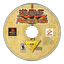
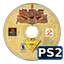
Capas do OPL com cara do original e jeito de port de PS2
capas_ps2.py, a partir das artes da caixa (tools/ps2/opl_art/caixa_original):
faixa preta de PS2 ("PS2 PORT", "PT-BR") no lugar da do PS1 na capa e no
verso (o verso vai para 242x344), logo sem a faixa branca e com "PORT PARA
PS2", ícone do disco com etiqueta PS2, telas do port em português numa
moldura de papiro e o fundo com as bordas escurecidas.

Claude-Session: https://claude.ai/code/session_014wuukR5uZSaACWjpusp4yR

Changed region(s): [[0.5625, 0.7188, 1.0, 0.9375], [0.4062, 0.375, 0.5938, 0.5], [0.4062, 0.5, 0.5938, 0.625]]

diff --git a/tools/ps2/opl_art/capas_ps2.py b/tools/ps2/opl_art/capas_ps2.py
@@ -1,0 +1,163 @@
+#!/usr/bin/env python3
+"""Capas do OPL com a cara do jogo original e jeito de port de PS2.
+
+    python3 capas_ps2.py <pasta com as artes SLUS_014.11_*.png> <telas: duelo.png carta.png> <saida>
+
+Parte das artes da caixa original (escolha do autor, 20/11/2026) e:
+  - capa e verso: troca a faixa "PlayStation" do PS1 por uma faixa preta de
+    jogo de PS2 ("PS2 PORT", "PT-BR") e o verso vai para 242x344;
+  - logo: tira a faixa branca da borda direita e põe "PORT PARA PS2";
+  - ícone: o disco com uma etiqueta "PS2";
+  - telas: imagens do port (em português) numa moldura de papiro, como as
+    telas do verso da caixa;
+  - fundo: o do jogo com as bordas escurecidas.
+Tudo com o ID da ISO (RGPM_001.01).
+"""
+import os
+import sys
+from PIL import Image, ImageDraw, ImageEnhance, ImageFilter, ImageFont
+
+GAME_ID = "RGPM_001.01"
+SANS_B = "/usr/share/fonts/truetype/dejavu/DejaVuSans-Bold.ttf"
+SERIF_B = "/usr/share/fonts/truetype/dejavu/DejaVuSerif-Bold.ttf"
+GOLD, GOLD_DARK = (242, 193, 78), (120, 80, 20)
+PS2_BLUE = (0, 70, 160)
+
+
+def font(path, size):
+    return ImageFont.truetype(path, size)
+
+
+def faixa_ps2(w, h):
+    """Faixa preta de capa de PS2, com o filete azul embaixo."""
+    bar = Image.new("RGB", (w, h), (8, 8, 10))
+    d = ImageDraw.Draw(bar)
+    for y in range(h):  # brilho leve de cima
+        v = int(28 * (1 - y / h))
+        d.line([(0, y), (w, y)], fill=(8 + v, 8 + v, 12 + v))
+    d.line([(0, h - 2), (w, h - 2)], fill=PS2_BLUE)
+    d.line([(0, h - 1), (w, h - 1)], fill=(0, 40, 100))
+    big = font(SANS_B, int(h * 0.62))
+    small = font(SANS_B, max(7, int(h * 0.36)))
+    x = int(h * 0.35)
+    d.text((x, h * 0.44), "PS2", font=big, fill=(255, 255, 255), anchor="lm")
+    x += d.textlength("PS2", font=big) + h * 0.22
+    d.text((x, h * 0.46), "PORT", font=small, fill=(150, 190, 255), anchor="lm")
+    d.text((w - h * 0.35, h * 0.46), "PT-BR", font=small, fill=GOLD, anchor="rm")
+    return bar
+
+
+def arte(img, x0, y0, w, h):
+    """Recorta a arte (sem a faixa do PS1) e cobre w x h mantendo a proporção."""
+    src = img.crop((x0, y0, img.width, img.height))
+    s = max(w / src.width, h / src.height)
+    src = src.resize((round(src.width * s), round(src.height * s)), Image.LANCZOS)
+    left = (src.width - w) // 2
+    top = src.height - h  # o que sobra sai de cima: embaixo ficam o título e a Konami
+    return src.crop((left, top, left + w, top + h))
+
+
+def capa(src, w, h, bar_h, x0, y0):
+    img = Image.open(src).convert("RGB")
+    up = img.resize((img.width * 4, img.height * 4), Image.LANCZOS)
+    out = Image.new("RGB", (w, h))
+    out.paste(arte(up, x0 * 4, y0 * 4, w * 4, (h - bar_h) * 4).resize((w, h - bar_h), Image.LANCZOS), (0, bar_h))
+    out.paste(faixa_ps2(w, bar_h), (0, 0))
+    out = out.filter(ImageFilter.UnsharpMask(radius=1, percent=60, threshold=2))
+    return out
+
+
+def tira_borda_clara(img):
+    """Corta colunas quase brancas da direita (e da esquerda)."""
+    rgb = img.convert("RGB")
+    w, h = rgb.size
+
+    def clara(x):
+        px = [rgb.getpixel((x, y)) for y in range(h)]
+        return sum(1 for p in px if min(p) > 225) > h * 0.6
+
+    r = w
+    while r > w // 2 and clara(r - 1):
+        r -= 1
+    l = 0
+    while l < w // 2 and clara(l):
+        l += 1
+    # mais uns pontos: a borda clara se mistura com a arte antes de sumir
+    return img.crop((l + (2 if l else 0), 0, max(r - 9, w // 2), h))
+
+
+def logo(src, w=300, h=125):
+    img = Image.open(src).convert("RGBA")
+    img = tira_borda_clara(img)
+    img = img.resize((w, h), Image.LANCZOS)
+    d = ImageDraw.Draw(img)
+    f = font(SANS_B, 11)
+    txt = "PORT PARA PS2"
+    tw = d.textlength(txt, font=f)
+    x, y = w - tw - 10, 8  # em cima, onde só tem o fundo da arte
+    d.rounded_rectangle((x - 6, y - 3, x + tw + 6, y + 14), radius=4, fill=(8, 8, 10, 230), outline=GOLD)
+    d.text((x, y - 1), txt, font=f, fill=(255, 255, 255))
+    return img
+
+
+def icone(src):
+    img = Image.open(src).convert("RGBA")
+    big = img.resize((256, 256), Image.LANCZOS)
+    d = ImageDraw.Draw(big)
+    f = font(SANS_B, 46)
+    d.rounded_rectangle((150, 184, 250, 238), radius=10, fill=(8, 8, 10, 245), outline=PS2_BLUE, width=5)
+    d.text((200, 211), "PS2", font=f, fill=(255, 255, 255), anchor="mm")
+    return big.resize((64, 64), Image.LANCZOS)
+
+
+def papiro(bg_src, w, h):
+    bg = Image.open(bg_src).convert("RGB")
+    # um pedaço só de hieróglifos (o canto de cima, sem o enigma)
+    tile = bg.crop((0, 0, 200, 150)).resize((w, h), Image.LANCZOS)
+    return ImageEnhance.Brightness(tile).enhance(0.95)
+
+
+def tela(shot_src, bg_src, w=250, h=188):
+    out = papiro(bg_src, w, h)
+    shot = Image.open(shot_src).convert("RGB")
+    m = 9
+    iw, ih = w - 2 * m, h - 2 * m
+    shot = shot.resize((iw, ih), Image.LANCZOS)
+    d = ImageDraw.Draw(out)
+    d.rectangle((m - 3, m - 3, w - m + 2, h - m + 2), fill=(60, 30, 10))
+    d.rectangle((m - 2, m - 2, w - m + 1, h - m + 1), outline=(214, 88, 40), width=2)
+    out.paste(shot, (m, m))
+    return out
+
+
+def fundo(src):
+    img = Image.open(src).convert("RGB").resize((640, 480), Image.LANCZOS)
+    mask = Image.new("L", img.size, 0)
+    d = ImageDraw.Draw(mask)
+    d.ellipse((-160, -120, 800, 600), fill=255)
+    mask = mask.filter(ImageFilter.GaussianBlur(90))
+    dark = ImageEnhance.Brightness(img).enhance(0.45)
+    return Image.composite(img, dark, mask)
+
+
+def main():
+    if len(sys.argv) < 5:
+        sys.exit(__doc__)
+    src, duelo, carta, out = sys.argv[1:5]
+    a = lambda n: os.path.join(src, "SLUS_014.11_%s.png" % n)
+    o = lambda n: os.path.join(out, "%s_%s.png" % (GAME_ID, n))
+    os.makedirs(out, exist_ok=True)
+    # A faixa do PS1 na frente: 19 px em cima e 10 px à esquerda (em 140x200);
+    # no verso só a lombada fina à esquerda.
+    capa(a("COV"), 140, 200, 18, 10, 19).save(o("COV"))
+    capa(a("COV2"), 242, 344, 22, 7, 0).save(o("COV2"))
+    logo(a("LGO")).save(o("LGO"))
+    icone(a("ICO")).save(o("ICO"))
+    tela(duelo, a("BG")).save(o("SCR"))
+    tela(carta, a("BG")).save(o("SCR2"))
+    fundo(a("BG")).save(o("BG"))
+    print("capas em", out)
+
+
+if __name__ == "__main__":
+    main()

diff --git a/tools/ps2/opl_art/gerar_capas.py b/tools/ps2/opl_art/gerar_capas.py
@@ -1,6 +1,7 @@
 #!/usr/bin/env python3
-"""(Desde 20/11/2026 o release/ART usa as artes da caixa original, escolhidas
-pelo autor: rodar este script substitui por estas de arte própria.)
+"""(Desde 20/11/2026 o release/ART sai do capas_ps2.py: as artes da caixa
+original, escolhidas pelo autor, com jeito de port de PS2. Rodar este script
+substitui por estas de arte própria.)
 
 Capas do port para o OPL (pasta ART do pendrive), arte original da
 Retrogames: sol alado dourado, moldura e o título em texto. Nada da arte da

diff --git a/ARQUITETURA.md b/ARQUITETURA.md
@@ -60,7 +60,7 @@ arquivos de `src/pc/` e `src/game/`. Para ver só o que o port mudou no projeto 
 | `guest_ps2.c` | Mapa de memória do jogo (TLB), modo supervisor, carga do executável do PS1 e relocação dos ponteiros dele, `Memories_Resolve` (endereço do PS1 → ponteiro), leitura do disco com read-ahead (`pread`), `fread`/`fwrite` com buffer intermediário, `mmap` (blocos de heap), `rename`/`fsync` para o FAT do USB |
 | `gs_gpu.c` / `.h` | **Renderizador**: traduz os comandos da GPU do PS1 (GP0) em primitivas do GS do PS2 |
 | `intro_ps2.c` / `intro_qr.h` | Abertura antes do jogo: vinheta da Retrogames (cubo dourado, acorde sintetizado no próprio código), título do port e tela "Apoie o projeto" com o QR code do Pix. Desenhada pela CPU em 640x448 e enviada por `GsGpu_IntroFrame` (gs_gpu.c); os buffers são do heap e liberados no fim (o ELF já usa quase toda a RAM: não use arrays estáticos grandes aqui). No PCSX2 com `host:` só roda se existir `intro.txt` |
-| (modo disco) | `platform_ps2.c`: com `argv[0]` em `cdrom0:` (ISO no OPL ou disco gravado) o port não carrega os drivers USB (no OPL o pendrive é do OPL), carrega `cdfs.irx` e lê `cdfs:/YFM.BIN`; idioma em `cdfs:/LANG/PTBR.TXT`; saves em `mc0:/YFMPS2` (`mcman`/`mcserv`). O `fstat` do cdfs devolve tamanho errado: `libds.c` mede por `lseek`. A ISO é montada por `tools/ps2/iso/montar_iso.c` (ID `RGPM_001.01`); capas do OPL em `release/ART` (desde 20/11/2026 as artes da caixa original, escolha do autor; as antigas, de arte própria, saem de `tools/ps2/opl_art/gerar_capas.py`). No PCSX2, `host:mctest.txt` testa os saves no memory card |
+| (modo disco) | `platform_ps2.c`: com `argv[0]` em `cdrom0:` (ISO no OPL ou disco gravado) o port não carrega os drivers USB (no OPL o pendrive é do OPL), carrega `cdfs.irx` e lê `cdfs:/YFM.BIN`; idioma em `cdfs:/LANG/PTBR.TXT`; saves em `mc0:/YFMPS2` (`mcman`/`mcserv`). O `fstat` do cdfs devolve tamanho errado: `libds.c` mede por `lseek`. A ISO é montada por `tools/ps2/iso/montar_iso.c` (ID `RGPM_001.01`); capas do OPL em `release/ART` (desde 20/11/2026 as artes da caixa original com faixa de PS2 e telas do port, `tools/ps2/opl_art/capas_ps2.py` a partir de `caixa_original/`; as antigas, de arte própria, saem do `gerar_capas.py`). No PCSX2, `host:mctest.txt` testa os saves no memory card |
 | `thunk.S` | `Memories_Icall` (chamada por ponteiro: função C ou endereço do PS1), `setjmp`/`longjmp` do jogo (com cópia dos registradores de 64 bits), `VSync` |
 | `relocate_ps2.c` | Corrige ponteiros dentro dos módulos que o jogo carrega do disco (e desfaz isso em dados de modelo 3D carregados por cima, ver seção 8) |
 | `sampler_ps2.c` | Tratamento de falhas da CPU (tela de erro com o endereço) e emulação de acessos do jogo a endereços físicos do PS1; amostrador de desempenho (só com `host:`) |
